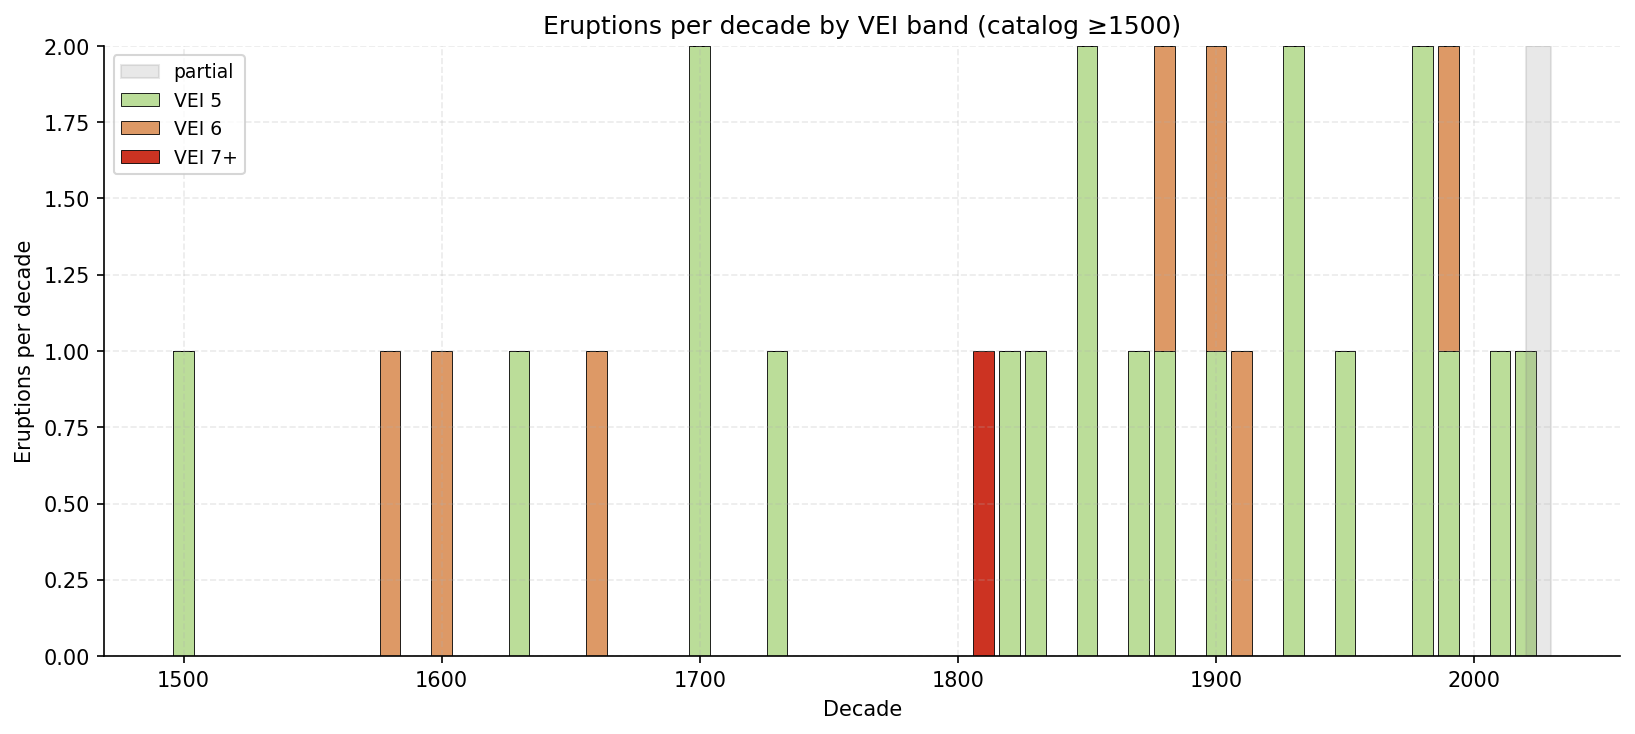
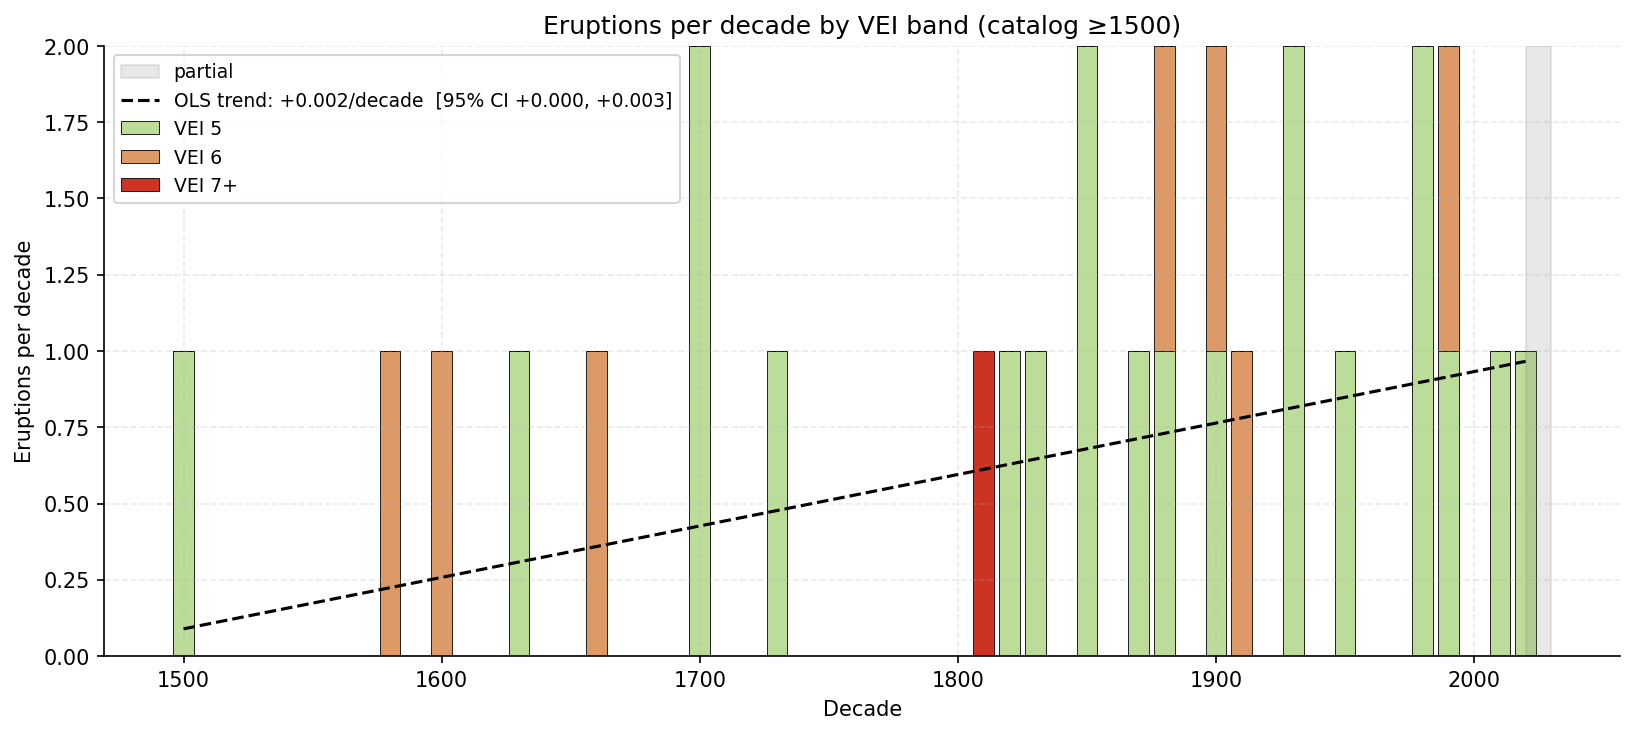
Add trend line + bootstrap CI to plot_02

diff --git a/make_plots.py b/make_plots.py
@@ -80,6 +80,20 @@ def plot_02_decadal_counts_by_vei(df: pd.DataFrame):
         bottom += counts
     ax.axvspan(PARTIAL_DECADE_START, PARTIAL_DECADE_START + 10,
                 color="grey", alpha=0.18, label="partial")
+    # Trend line on total per decade
+    totals = np.array(bottom)
+    full_mask = decades < PARTIAL_DECADE_START
+    x_fit = decades[full_mask]; y_fit = totals[full_mask]
+    slope, intercept = np.polyfit(x_fit, y_fit, 1)
+    rng = np.random.default_rng(42)
+    boot = []
+    for _ in range(2000):
+        idx = rng.integers(0, len(x_fit), len(x_fit))
+        s, _ = np.polyfit(x_fit[idx], y_fit[idx], 1)
+        boot.append(s)
+    ci_lo, ci_hi = np.percentile(boot, [2.5, 97.5])
+    ax.plot(decades, slope * decades + intercept, "k--", linewidth=1.5,
+              label=f"OLS trend: {slope:+.3f}/decade  [95% CI {ci_lo:+.3f}, {ci_hi:+.3f}]")
     ax.set_xlabel("Decade")
     ax.set_ylabel("Eruptions per decade")
     ax.set_title(f"Eruptions per decade by VEI band (catalog ≥{CATALOG_START})")
@@ -87,6 +101,7 @@ def plot_02_decadal_counts_by_vei(df: pd.DataFrame):
     plt.tight_layout()
     plt.savefig(PLOTS / "02_decadal_counts_by_vei.png")
     plt.close()
+    return slope, ci_lo, ci_hi
 
 
 def plot_03_great_eruption_timing(df: pd.DataFrame):
@@ -162,7 +177,8 @@ def main():
     print(f"Loaded {len(df)} VEI≥5 eruptions; {int(df['year'].min())}–{int(df['year'].max())}")
     print(f"VEI≥6: {(df['vei'] >= 6).sum()}; VEI≥7: {(df['vei'] >= 7).sum()}")
     plot_01_vei_timeline(df)
-    plot_02_decadal_counts_by_vei(df)
+    slope, lo, hi = plot_02_decadal_counts_by_vei(df)
+    print(f"Decadal trend ({CATALOG_START}+): {slope:+.3f}/decade [95% CI {lo:+.3f}, {hi:+.3f}]")
     plot_03_great_eruption_timing(df)
     plot_04_vei_distribution(df)
     print(f"Wrote 4 plots to {PLOTS}/")